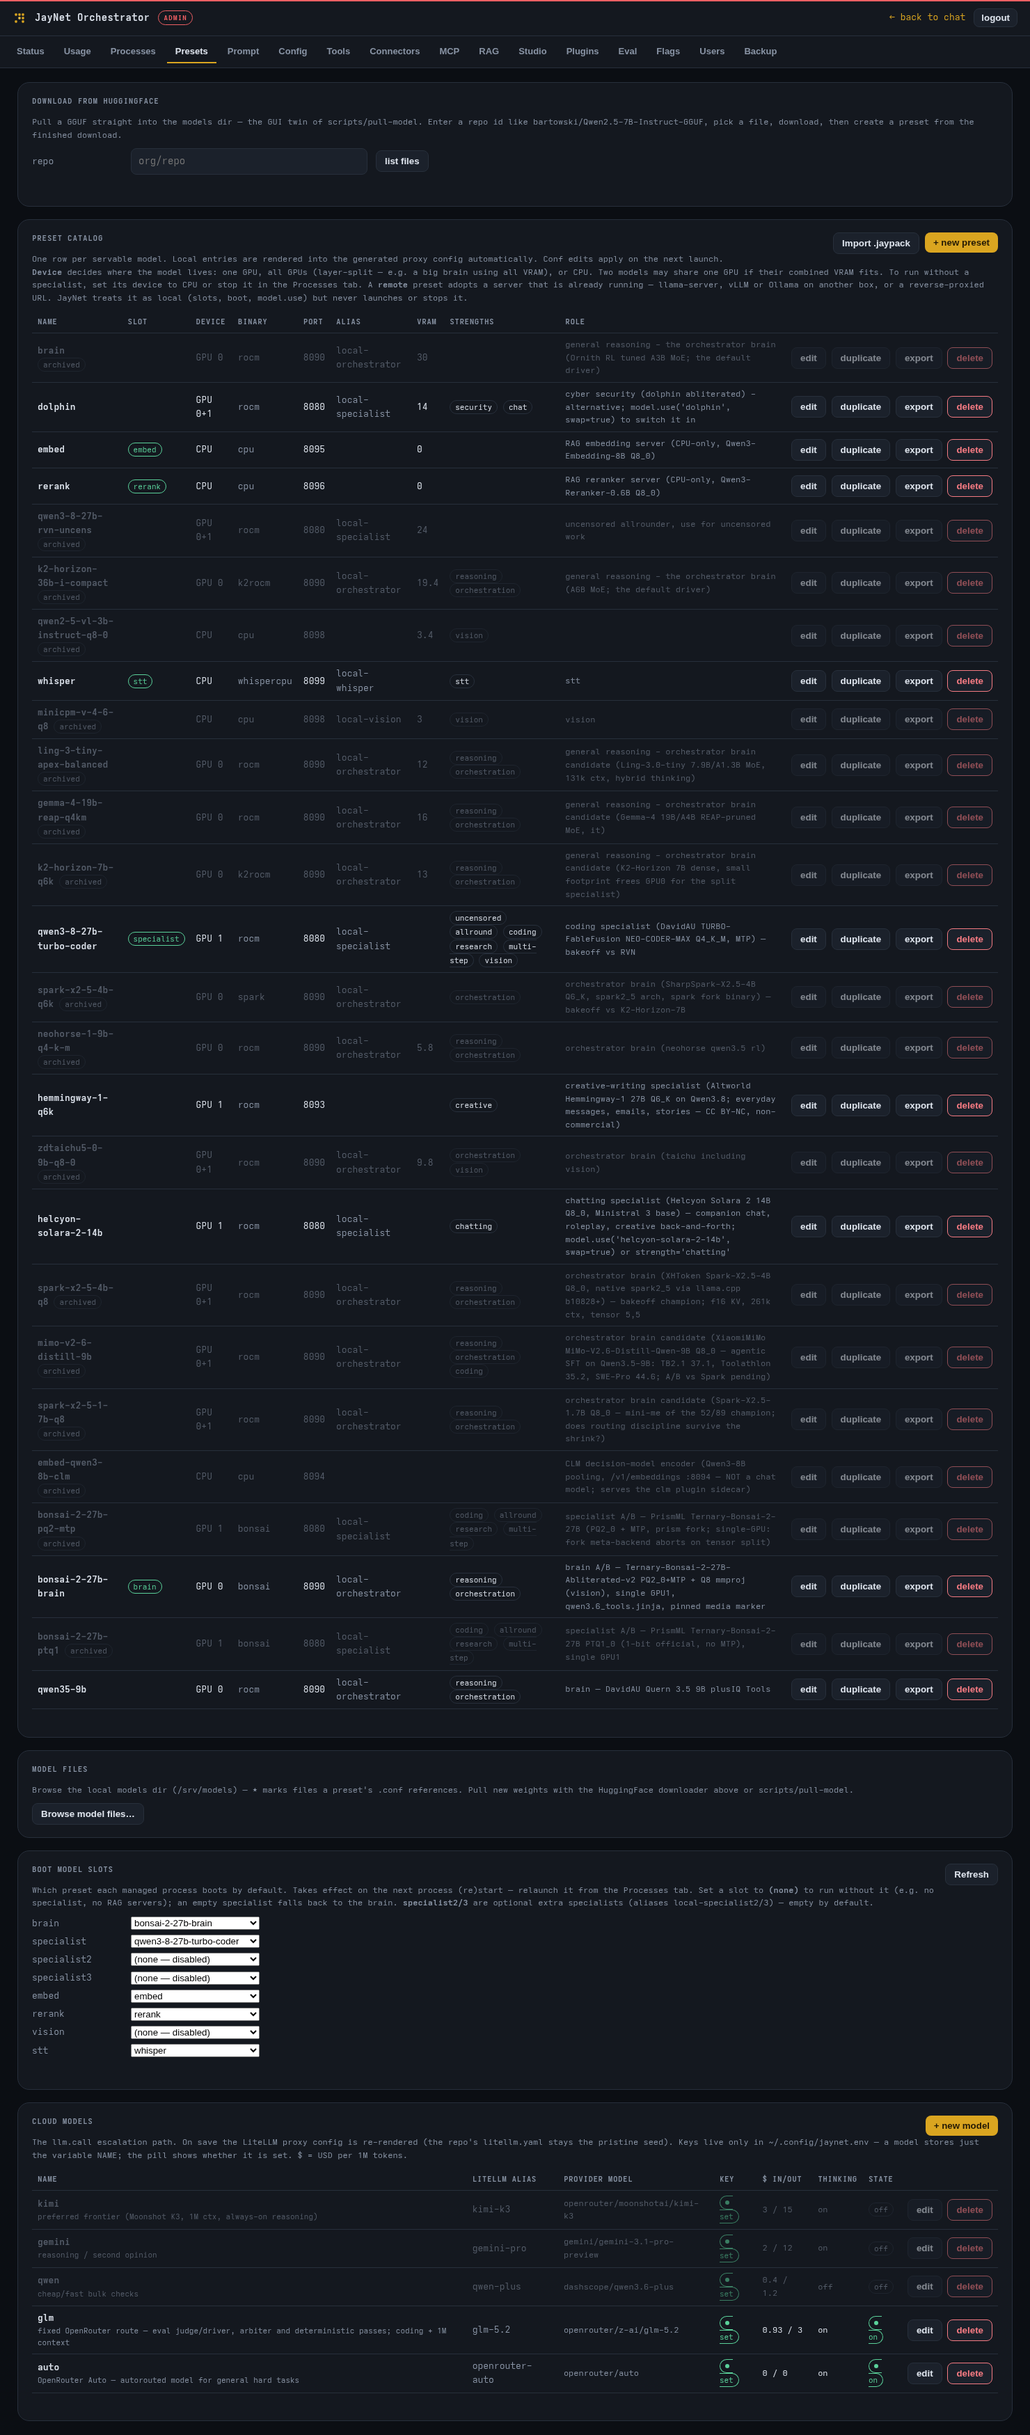
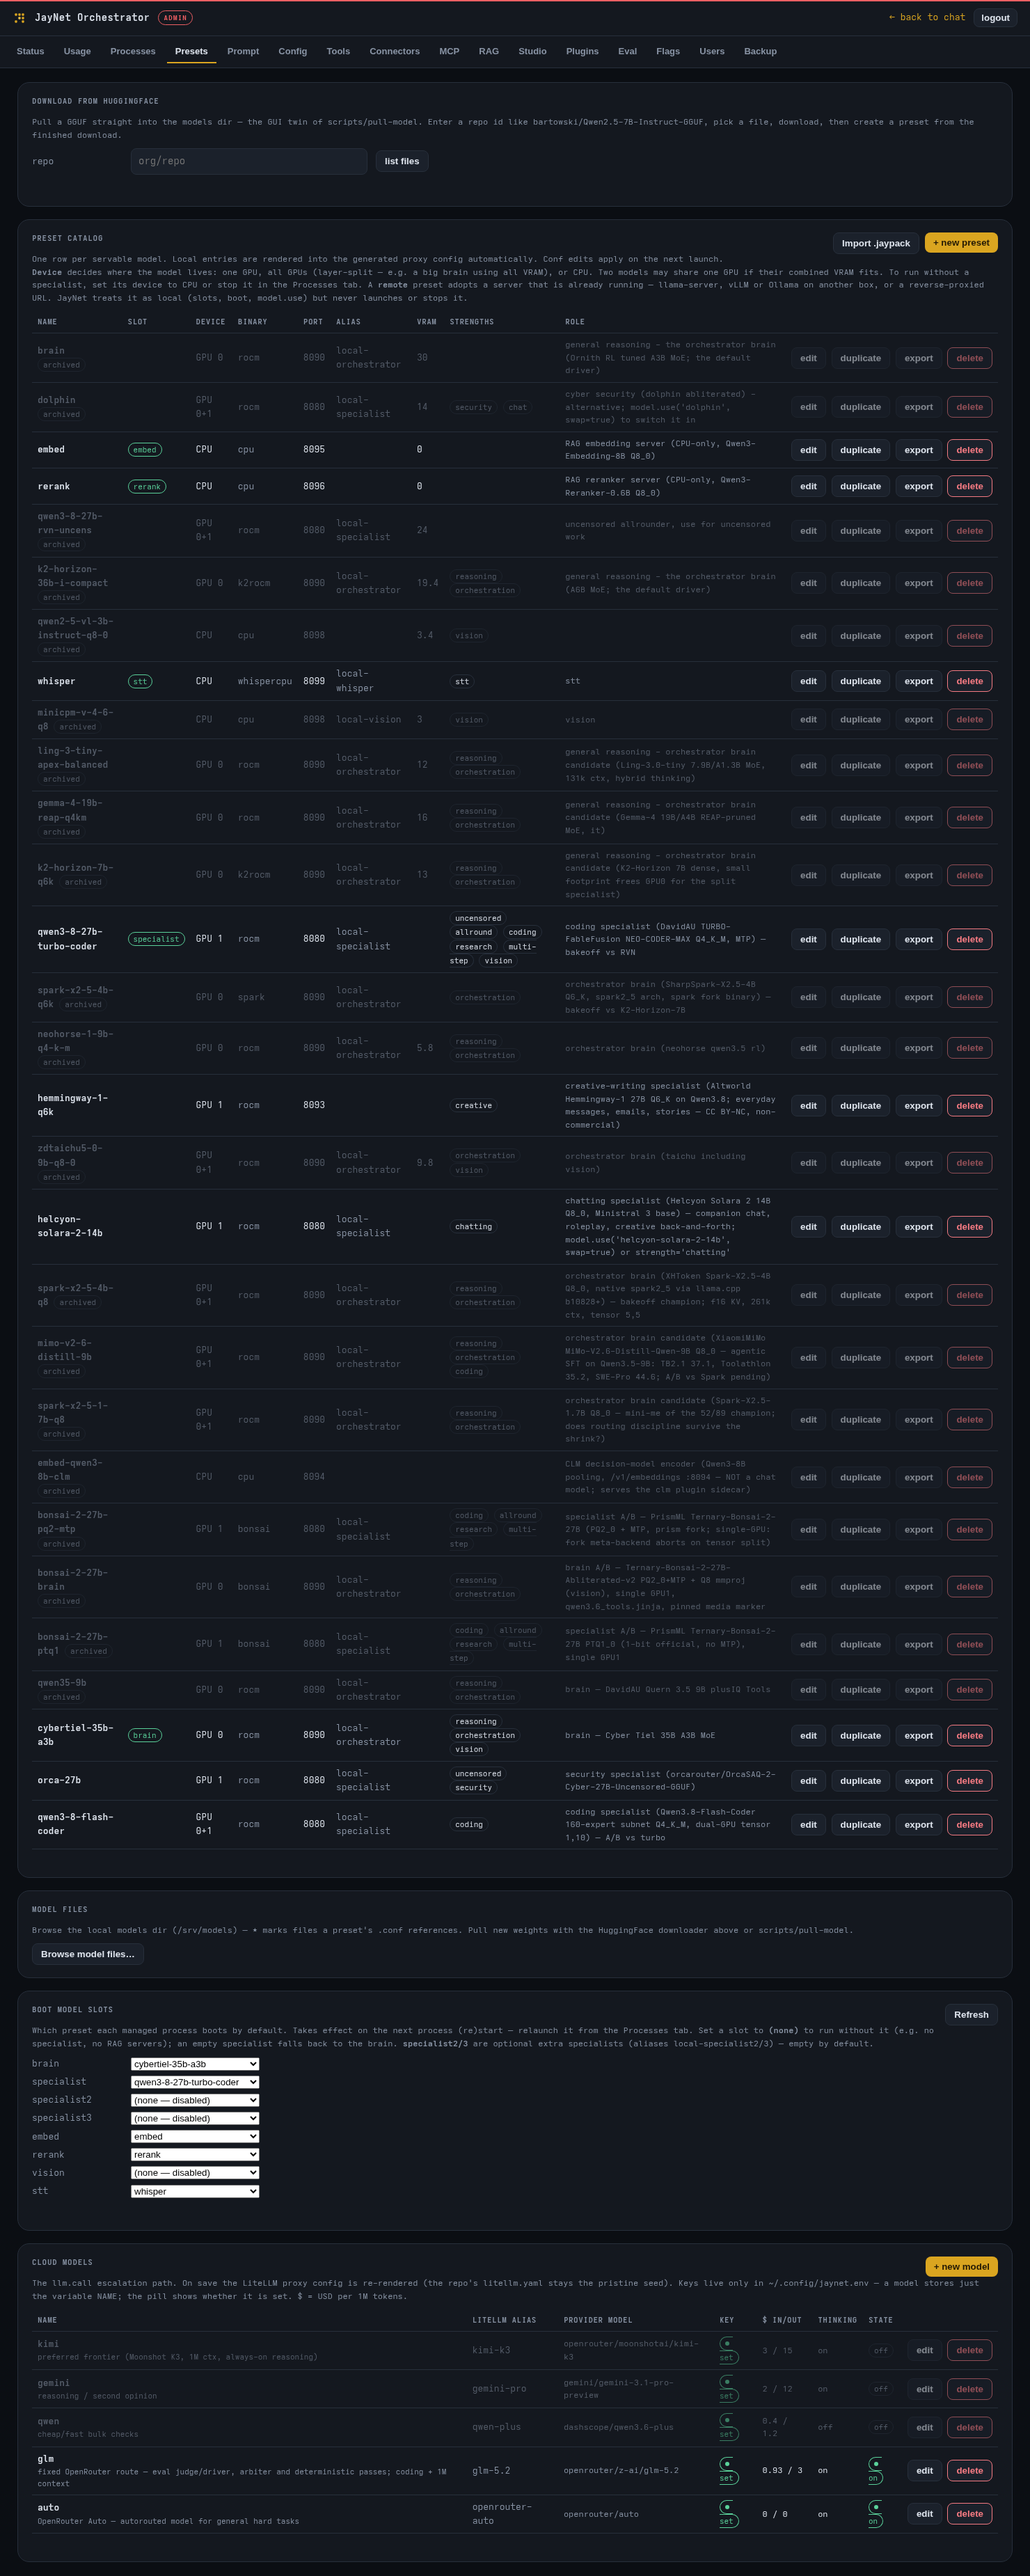
audit #25: D1 api.md example, D3 presets re-shoot, D4 changelog backlog
- D1: the /api/health example showed pinned values (version + tool count)
  and shipped one version behind in TWO release cuts — it now shows
  shapes with a note on what the fields are.
- D3: admin-presets.png re-shot — the previous shot predated the live
  Cyber-Tiel swap (boot slots showed bonsai); now shows
  brain=cybertiel-35b-a3b, specialist=qwen3-8-27b-turbo-coder, matching
  the README homelab section. Verified visually.
- D4: the six post-v1.15.0 commits had an empty Unreleased — backfilled
  (xdist CI, install catch-up, README driver fix, audit #25 fixes,
  weekly floor arm, D2 false-positive verdict).

diff --git a/CHANGELOG.md b/CHANGELOG.md
@@ -7,6 +7,37 @@ Every tagged version gets a release file in `docs/releases/vX.Y.Z.md`
 
 ## Unreleased
 
+- **audit #25 fixes.**
+  - **B1:** the jev sidecar lifecycle test ran start+stop in two separate
+    `asyncio.run` calls — the supervisor's cancel-and-drain never returned
+    on py3.11's thread-based child watcher, hanging the floor suite (and
+    CI's 3.11 arm) forever. Both hooks now run inside one loop; the py3.11
+    floor suite is green again (2046 passed).
+  - **D2 (false positive):** the claimed hot-disable lifecycle gap was
+    already covered — the admin toggle awaits a plugin's recorded
+    shutdown hooks BEFORE unregistering them (web/routes_plugins.py), so
+    the jevify sidecar and imagegen's sd-server do stop with the toggle.
+    What was actually wrong: the stale jev routes comment that claimed
+    the opposite (and misled the audit) — corrected.
+  - **D1:** api.md's `/api/health` example shows shapes, not pinned values
+    — the second release cut that shipped it one version behind.
+- **CI: the 3.11 floor arm runs weekly + on dispatch, not per-push.**
+  Per-push is 3.14-only (the interpreter dev + live run) — the floor
+  promise stays tested without paying dual-matrix on every commit.
+- **CI pytest with xdist `-n 2`** (~130s vs 213s serial) after the 15-min
+  job timeout cancelled runs; conftest re-anchors each worker to a private
+  data dir (the shared users.db admin-seed race). Wall-clock burns removed
+  from the suite's slow tests (18s×4, 8s×2, 10.5s dev-box wait).
+- **Install catch-up:** setup.sh copies an explicit systemd unit list (the
+  clm-serve plugin template no longer installs a unit that can only fail;
+  the opt-in backup timer now installs), quickstart pins llama.cpp b11282
+  and `--latest` walks recent releases for the newest b-tag (upstream's
+  /releases/latest can point at an asset-less tag).
+- **Docs:** README names Cyber-Tiel as the production brain in the two
+  spots that still said Ternary-Bonsai; the helper-script section matches
+  the real build_tools.sh (whisper/sd/piper projects, versioned install
+  prefixes, `update`); development.md documents the `-n 2` suite run.
+
 ## 1.15.0 — 2026-09-30
 
 - **New champion brain: Cyber-Tiel-35B-A3B (38/41, first TB clean

diff --git a/docs/api.md b/docs/api.md
@@ -32,8 +32,12 @@ Errors: `401` missing/invalid token · `404` unknown run · `422` invalid body.
 ### `GET /api/health` — no auth
 
 ```json
-{"ok": true, "version": "1.14.3", "tools": 115}
+{"ok": true, "version": "<__version__>", "tools": <registry size>}
 ```
+
+(`version` is `runtime.__version__`; `tools` counts the core registry —
+121 on a core-only boot. The example shows shapes, not pinned values:
+two release cuts shipped this block one version behind — audit #24/#25 D1.)
 
 ### `POST /api/chat` — start an agent run (web-UI style, client-managed history)
 
